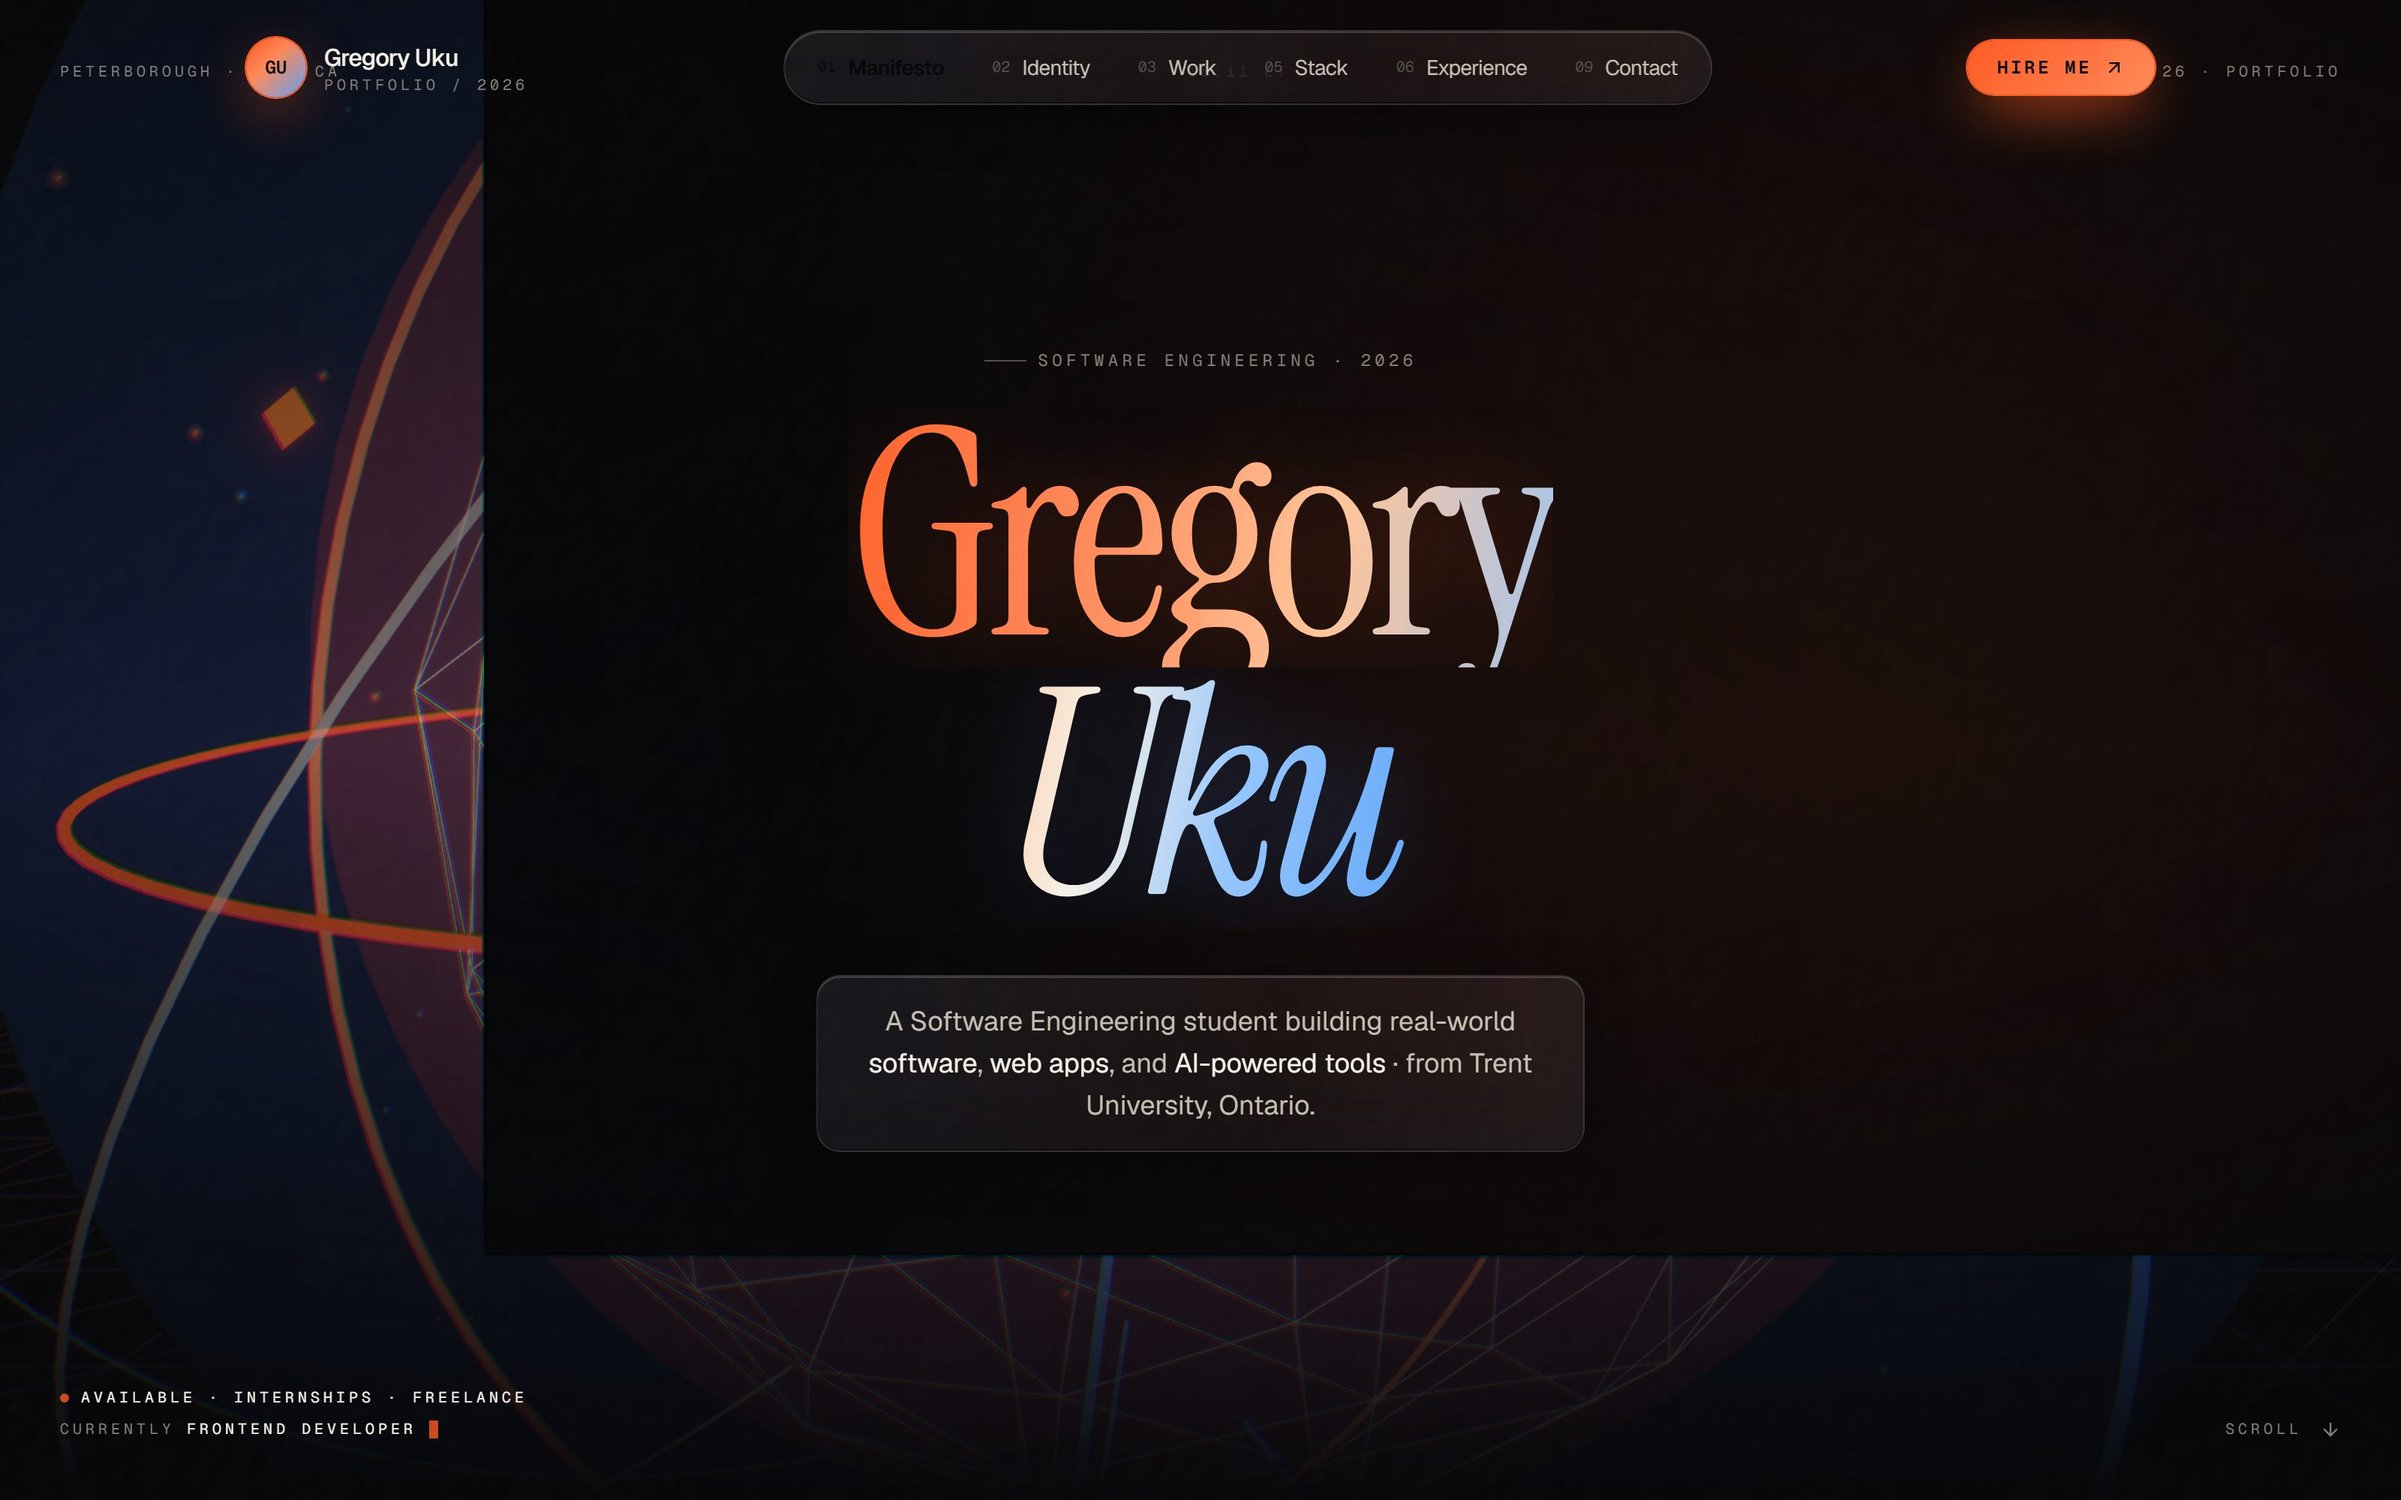
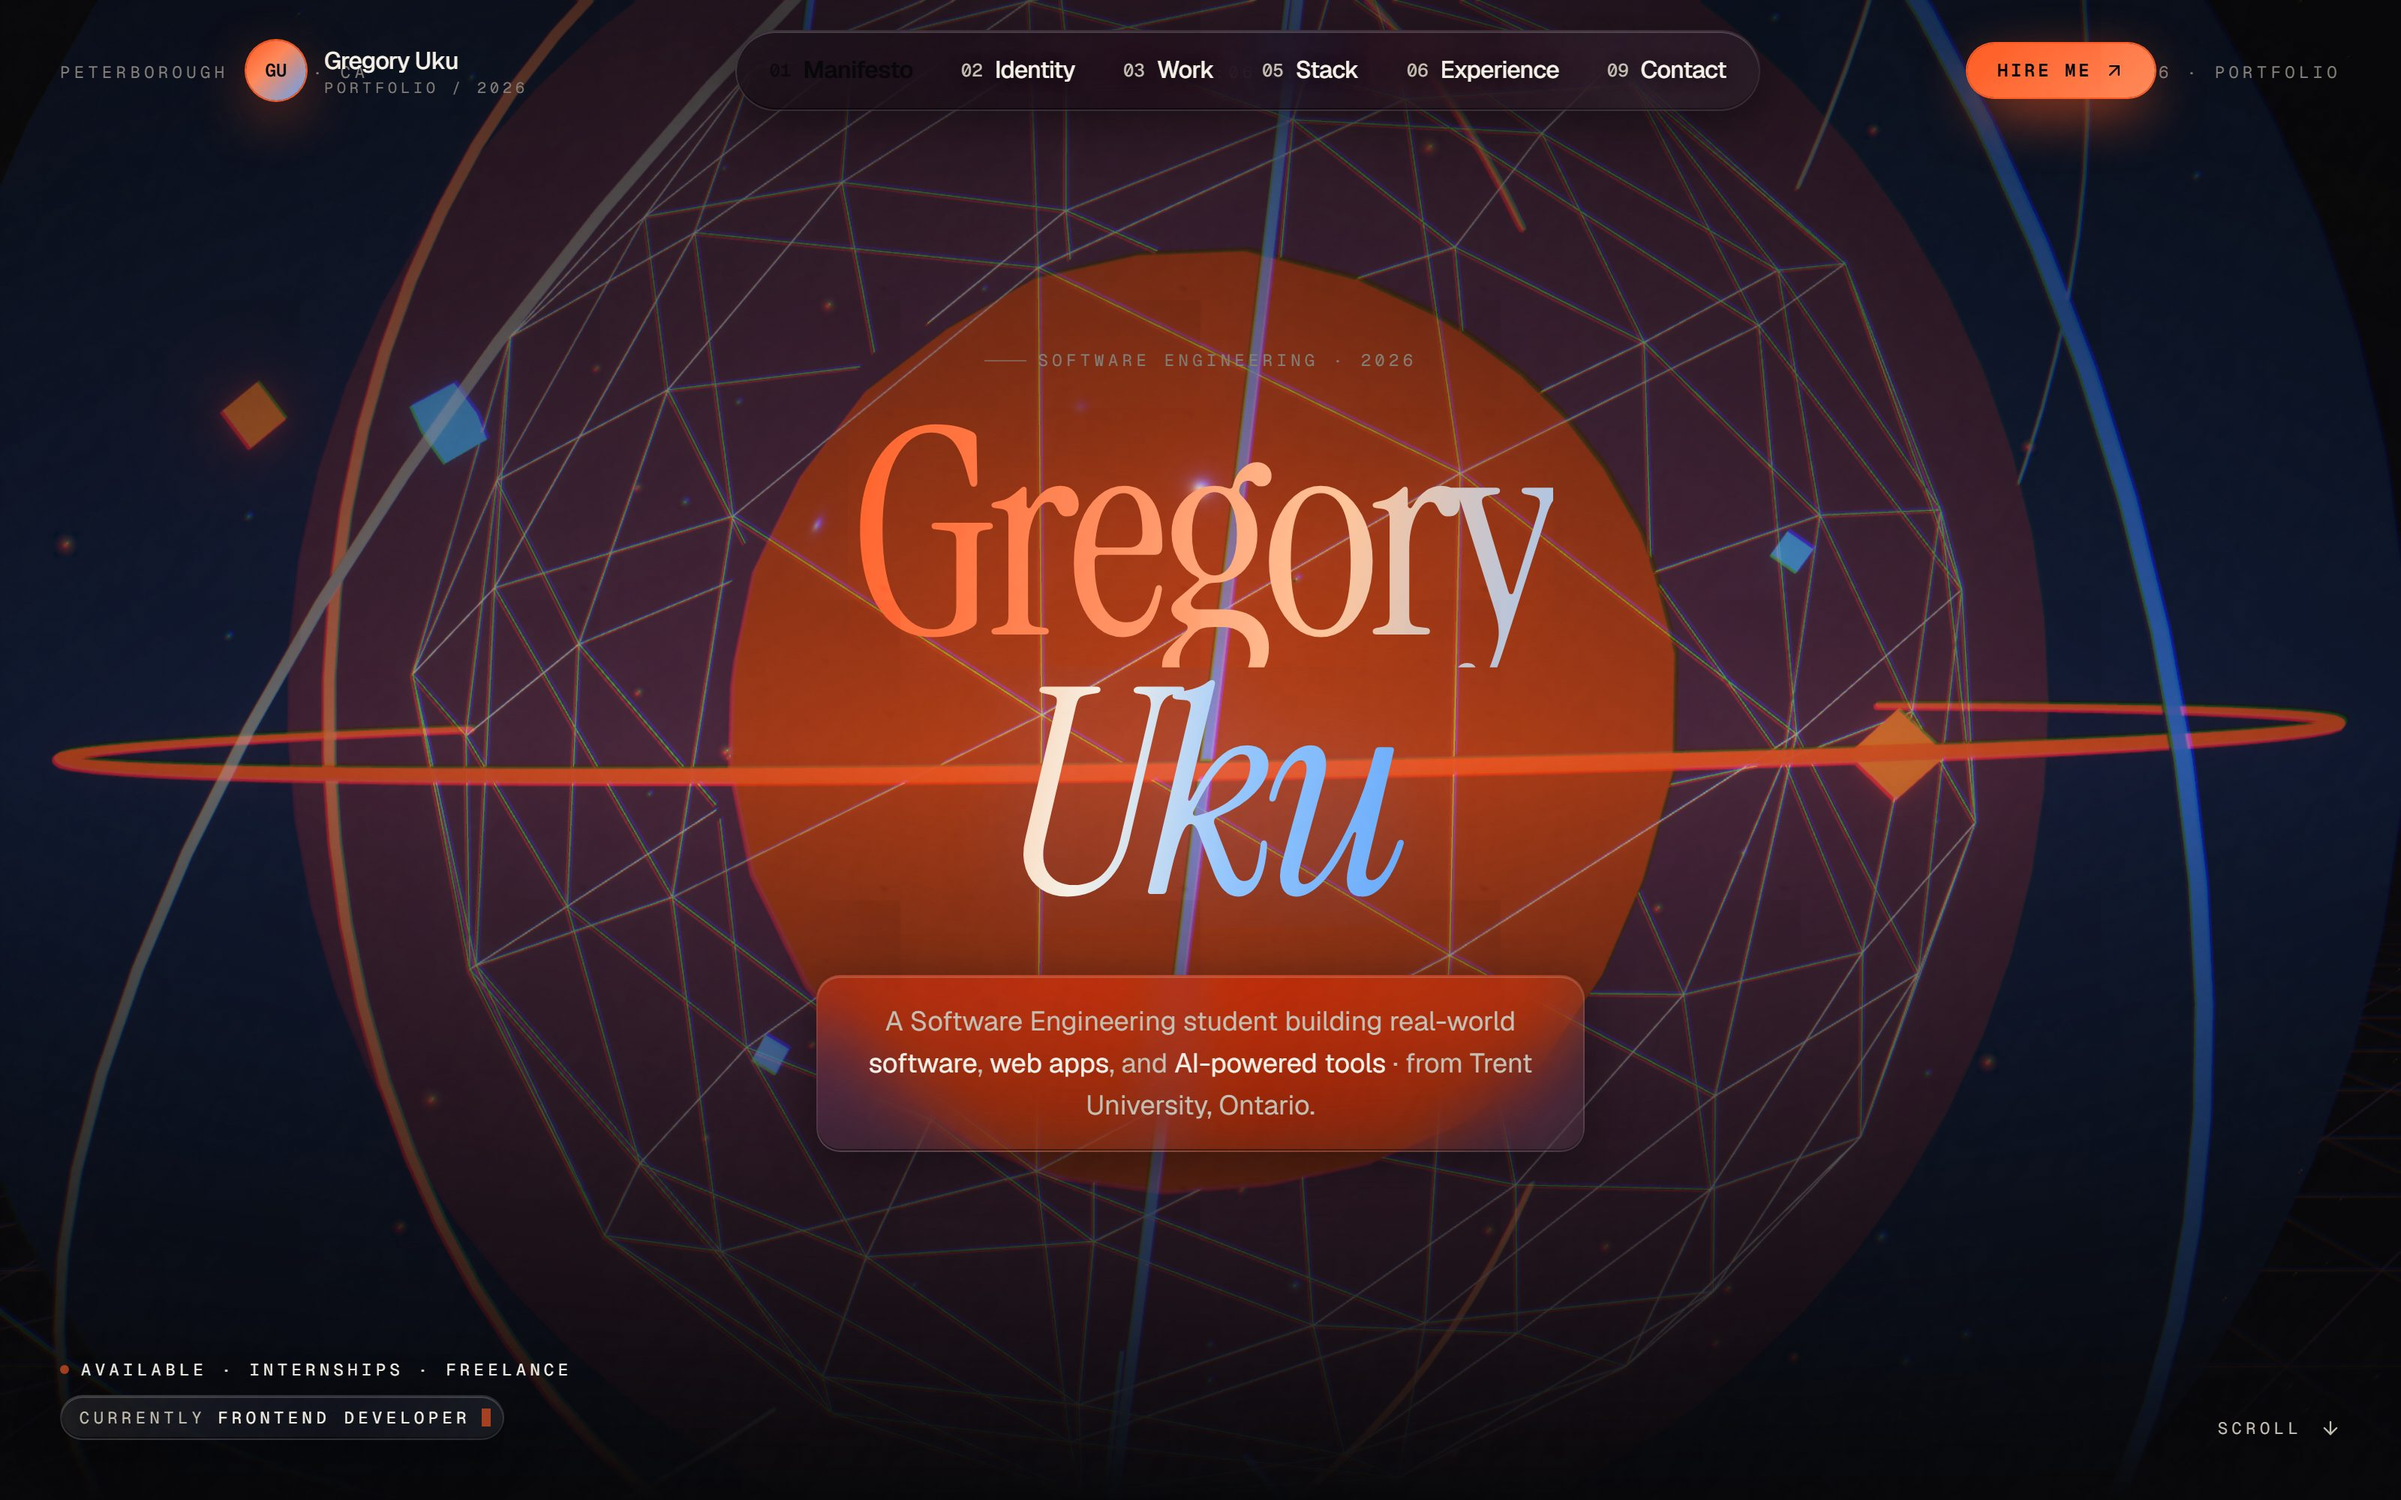
Re-shoot portfolio.jpg with new nav · brighten active blob
Two adjustments to nav round 2:
- Backdrop opacity 0.55→0.35 dropped to 0.38→0.20. Text legibility holds
  thanks to the text-shadow + bone-bright inactive labels, and the active
  blob's gradient now has room to breathe.
- Active blob: mix-blend-mode: screen guarantees the ember→tide pill
  always LIGHTENS pixels behind it, never gets averaged into the dark
  backdrop. Plus a saturation lift (#ff7438→#ff8a4f, #5fa0ff→#7eb6ff)
  and a slightly stronger ember halo (0.65→0.75) so the pill reads as
  the visual anchor of the navbar.

public/projects/portfolio.jpg re-shot via Vercel bypass on the new
build — shows the round-2 nav at its restored size + dark glass pill,
the WebGL hero behind, and the bottom-left "Currently <role>" liquid-
glass pill all visible in one frame.

diff --git a/src/components/Navbar.jsx b/src/components/Navbar.jsx
@@ -146,15 +146,16 @@ export default function Navbar() {
             </div>
           </a>
 
-          {/* Liquid nav pill — uses liquid-glass + a darker bg-black underlay so
-              link text reads decisively against the WebGL hero behind it. */}
+          {/* Liquid nav pill — liquid-glass + a moderate bg-black underlay.
+              Strong enough that text reads decisively, light enough that the
+              active blob's gradient still pops through. */}
           <nav
             ref={navRef}
             onMouseLeave={() => setHovered(null)}
             className="hidden lg:flex relative items-center p-1.5 rounded-full liquid-glass"
             style={{
               background:
-                'linear-gradient(135deg, rgba(8, 8, 10, 0.55), rgba(8, 8, 10, 0.35))'
+                'linear-gradient(135deg, rgba(8, 8, 10, 0.38), rgba(8, 8, 10, 0.20))'
             }}
           >
             {/* Liquid blob layer — applies the goey filter so blobs merge fluidly */}
@@ -162,8 +163,10 @@ export default function Navbar() {
               className="absolute inset-1.5 pointer-events-none rounded-full overflow-hidden"
               style={{ filter: 'url(#liquid-nav)' }}
             >
-              {/* Active blob — brighter gradient + larger ember halo so it
-                  reads strongly through the goo filter. */}
+              {/* Active blob — saturated ember→tide gradient with a layered
+                  halo. mix-blend-screen guarantees the pill lightens whatever
+                  is behind it (the dark backdrop layer) instead of being
+                  averaged into it. */}
               {activeRect && (
                 <motion.div
                   animate={{ x: activeRect.x, width: activeRect.width }}
@@ -176,10 +179,11 @@ export default function Navbar() {
                   className="absolute top-0 h-full rounded-full"
                   style={{
                     background:
-                      'linear-gradient(135deg, #ff7438 0%, #ffa07a 35%, #c0d8ff 70%, #5fa0ff 100%)',
+                      'linear-gradient(135deg, #ff8a4f 0%, #ffb088 35%, #d0e4ff 70%, #7eb6ff 100%)',
                     backgroundSize: '180% 100%',
                     boxShadow:
-                      '0 0 42px rgba(255,138,91,0.65), 0 0 24px rgba(96,165,250,0.55), inset 0 0 18px rgba(255,255,255,0.25)'
+                      '0 0 48px rgba(255,138,91,0.75), 0 0 28px rgba(96,165,250,0.6), inset 0 0 20px rgba(255,255,255,0.35)',
+                    mixBlendMode: 'screen'
                   }}
                 />
               )}
